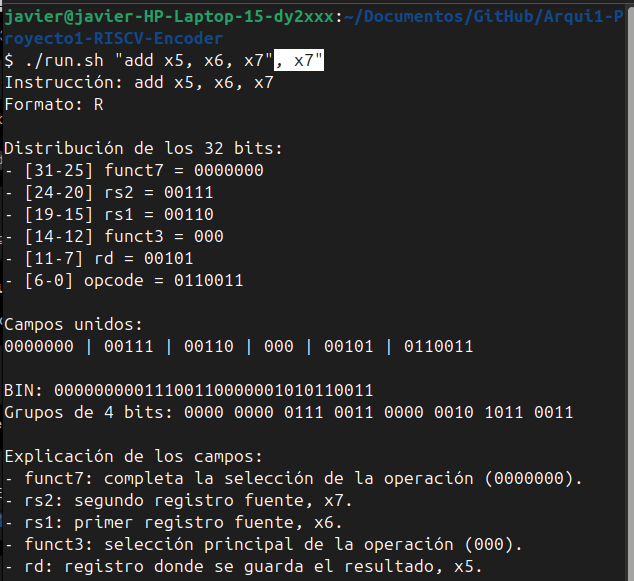
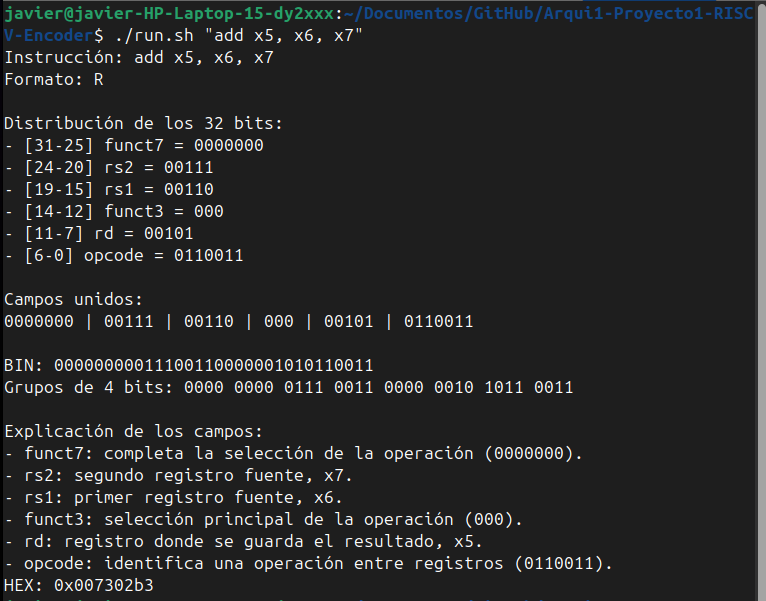
docs: completar fuente del diagrama y captura del formato R

Changed region(s): [[0.0, 0.0, 1.0, 1.0], [0.8391, 0.6816, 0.8991, 0.7435], [0.7792, 0.6816, 0.8091, 0.7435]]

diff --git a/documentacion.md b/documentacion.md
@@ -91,7 +91,6 @@ Arqui1-Proyecto1-RISCV-Encoder/
 ├── tests/
 │   └── validate_against_toolchain.py
 ├── docs/
-│   ├── diagrama1.dot
 │   └── img/
 │       ├── diagrama1.png
 │       └── ss1.png ... ss8.png
@@ -108,7 +107,6 @@ Arqui1-Proyecto1-RISCV-Encoder/
 - `vectores_ejemplo.txt`: contiene los ejemplos iniciales proporcionados con el kit del proyecto.
 - `validacion_resultados.md`: contiene la comparación de los 36 casos contra el toolchain oficial.
 - `tests/validate_against_toolchain.py`: compara el encoder con las herramientas oficiales de RISC-V.
-- `docs/diagrama1.dot`: contiene el código Graphviz del flujo principal.
 - `docs/img/`: contiene el diagrama generado y las capturas utilizadas en esta documentación.
 - `isa-encoder-riscv-kit-2026ii/`: conserva la especificación y la documentación original del kit.
 
